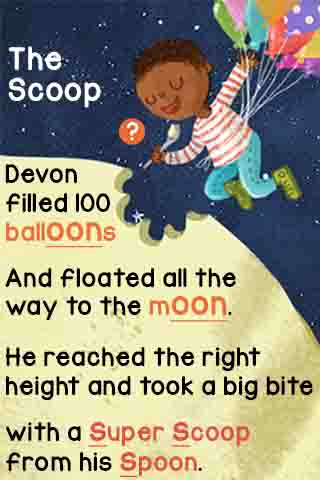
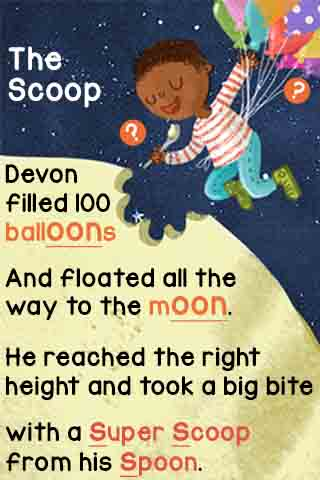
created SPRINT sample msg; reconfigured break; added orange bubble note to sample

diff --git a/app.rb b/app.rb
@@ -95,7 +95,8 @@ helpers do
 		@user = User.find_by_phone(params[:From])
 		
 		#strip whitespace (trailing and leading)
-		params[:Body] = params[:Body].strip
+ 		params[:Body] = params[:Body].strip
+		params[:Body].gsub!(/[\.\,\!]/, '') #rid of periods, commas, exclamation points
 
 		#first reply: new user texts in STORY
 		if params[:Body].casecmp("STORY") == 0 && (@user == nil || @user.sample == true)
@@ -133,9 +134,11 @@ helpers do
 			    	auth_token = ENV['TW_AUTH_TOKEN']
 				  	@client = Twilio::REST::LookupsClient.new account_sid, auth_token
 
-			    	# Lookup wireless carrier
-				  	number = @client.phone_numbers.get(@user.phone, type: 'carrier')
-				  	@user.update(carrier: number.carrier['name'])
+			    	# Lookup wireless carrier if it hasn't already been done in SAMPLE
+			    	if @user.carrier == nil
+					  	number = @client.phone_numbers.get(@user.phone, type: 'carrier')
+					  	@user.update(carrier: number.carrier['name'])
+					 end
 			  	else
 			  		@user.update(carrier: params[:Carrier])
 			  	end
@@ -161,7 +164,26 @@ helpers do
 
 
 			if params[:Body].casecmp("SAMPLE") == 0 
-				Helpers.text_and_mms(Text::SAMPLE_SMS, Text::FIRST_MMS[0], @user.phone) 
+
+				if MODE == PRO
+					#TWILIO set up:
+			   		account_sid = ENV['TW_ACCOUNT_SID']
+			    	auth_token = ENV['TW_AUTH_TOKEN']
+				  	@client = Twilio::REST::LookupsClient.new account_sid, auth_token
+
+			    	# Lookup wireless carrier
+				  	number = @client.phone_numbers.get(@user.phone, type: 'carrier')
+				  	@user.update(carrier: number.carrier['name'])
+			  	else
+			  		@user.update(carrier: params[:Carrier])
+			  	end
+
+			  	if @user.carrier == Text::SPRINT
+					Helpers.text_and_mms(Text::SAMPLE_SPRINT_SMS, Text::FIRST_MMS[0], @user.phone)
+				else
+					Helpers.text_and_mms(Text::SAMPLE_SMS, Text::FIRST_MMS[0], @user.phone)
+				end
+
 			else 
 				Helpers.text_and_mms(Text::EXAMPLE_SMS, Text::FIRST_MMS[0], @user.phone) 
 			end
@@ -224,6 +246,13 @@ helpers do
 
 		  	Helpers.text(Text::HELP_SMS_1 + dayNames + Text::HELP_SMS_2, Text::HELP_SPRINT_1 + dayNames + Text::HELP_SPRINT_2, @user.phone)
 
+		elsif params[:Body].casecmp("BREAK") == 0
+
+			@user.update(on_break: true)
+			@user.update(days_left_on_break: Text::BREAK_LENGTH)
+
+			Helpers.text(Text::START_BREAK, Text::START_BREAK, @user.phone)
+
 
 		elsif params[:Body].casecmp("STOP NOW") == 0 || params[:Body].casecmp("STOP") == 0#STOP option
 			
@@ -237,7 +266,8 @@ helpers do
 
 			#change subscription
 			@user.update(subscribed: false)
-			Helpers.text(Text::STOPSMS, Text::STOPSMS, @user.phone)
+			note = params[:From].to_s + "quit StoryTime."
+			Helpers.new_text(note, note, "+15612125831")
 
 		elsif params[:Body].casecmp(Text::TEXT_CMD) == 0 #TEXT option		
 

diff --git a/constants.rb b/constants.rb
@@ -69,6 +69,9 @@ REDO_BIRTHDATE = "When was your child born? For age appropriate stories, reply w
 
 SPRINT = "Sprint Spectrum, L.P."
 
+SPRINT_QUERY_STRING = 'Sprint%20Spectrum%2C%20L%2EP%2E'
+
+
 GOOD_CHOICE = "Great, it's on the way!"
 
 BAD_CHOICE = "StoryTime: Sorry, we didn't understand that. Reply with the letter of the story you want.
@@ -98,7 +101,9 @@ FIRST_MMS = ["http://joinstorytime.org/images/devon_final.jpg"]
 
 THE_FINAL_MMS = "http://joinstorytime.org/images/devon_final.jpg"
 
-SAMPLE_SMS = "Today in class, we talked about the moon and space explorers. Keep learning with this story!\n-Ms. Wilson\n\nThanks for trying out StoryTime!"
+SAMPLE_SMS = "Today in class, we talked about the moon and space. When you see orange bubbles in tonight's story, point and ask \"what's this?\" or \"what's going on here?\"\n-Ms. Wilson\n\nThanks for trying StoryTime!"
+
+SAMPLE_SPRINT_SMS = "Today in class, we talked about the moon. As you read and see orange bubbles, point and ask \"what's going on here?\"\n-Ms. Wilson\n\nThanks for trying StoryTime!"
 
 EXAMPLE_SMS = "Thanks for trying out StoryTime, free rhyming stories by text! Enjoy your sample story about Devon's scoop!"
 

diff --git a/spec/first_text_worker.rb b/spec/first_text_worker.rb
@@ -80,6 +80,13 @@ describe 'The StoryTime Workers' do
 			puts Text::SAMPLE_SMS
 		end		
 
+		it "sends Sprint-Sample to sprint phones" do
+			get '/test/556/%20SAMPLE%20%0A/'+Text::SPRINT_QUERY_STRING
+			expect(NextMessageWorker.jobs.size).to eq(0)
+			expect(Helpers.getSMSarr).to eq([Text::SAMPLE_SPRINT_SMS])
+			puts Text::SAMPLE_SPRINT_SMS
+		end
+
 		it "sends the example with whitespace well" do 
 			get '/test/556/%20%0AEXAMPLE%20%0A/ATT'
 			expect(NextMessageWorker.jobs.size).to eq(0)

diff --git a/spec/app.rb b/spec/app.rb
@@ -482,7 +482,7 @@ describe 'The StoryTime App' do
         expect(@user.subscribed).to eq true
         get '/test/+15612125833/'+Text::BREAK+"/ATT"
 
-        expect(Helpers.getSMSarr).to eq Text::START_BREAK
+        expect(Helpers.getSMSarr[0]).to eq Text::START_BREAK
 
 
         Timecop.travel(2015, 6, 23, 17, 30, 0) #on Tuesday!
